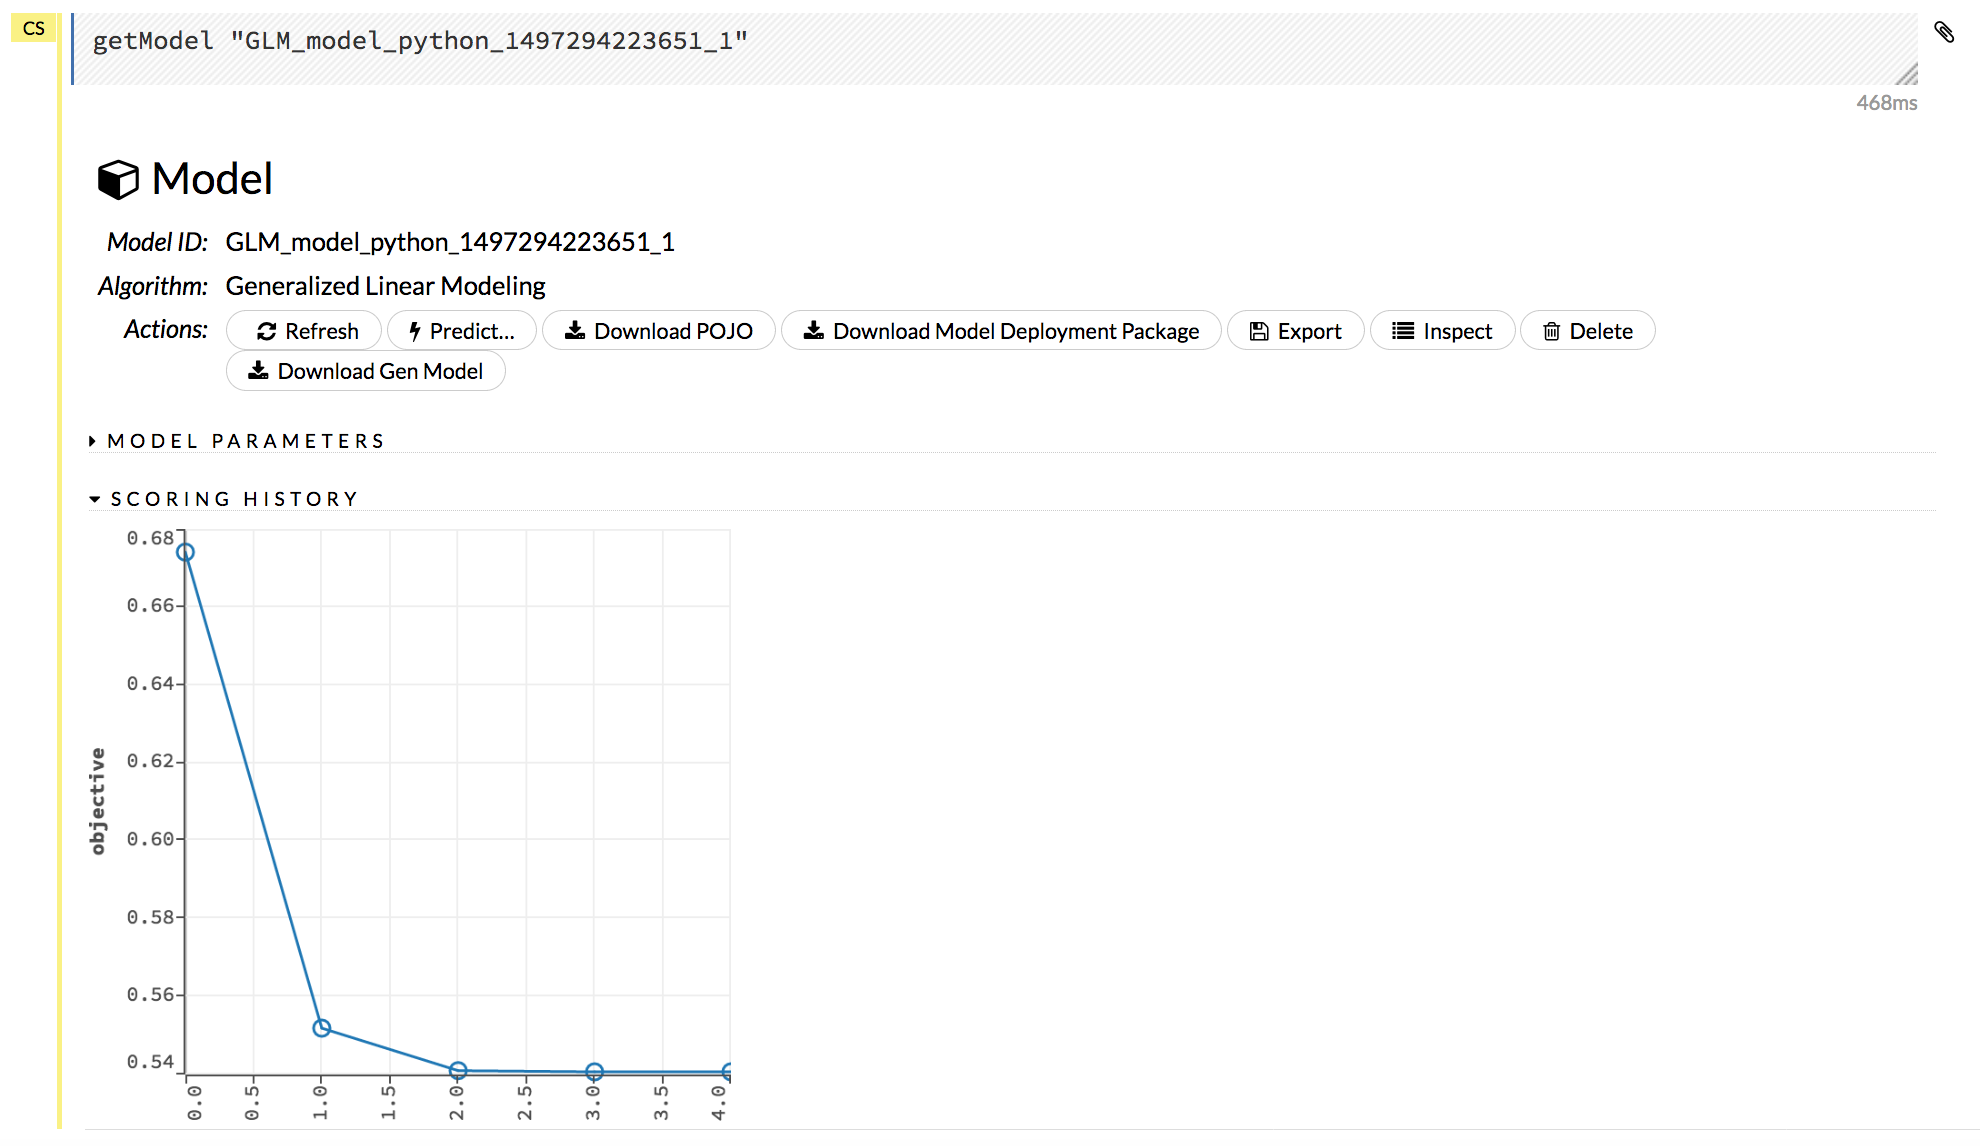
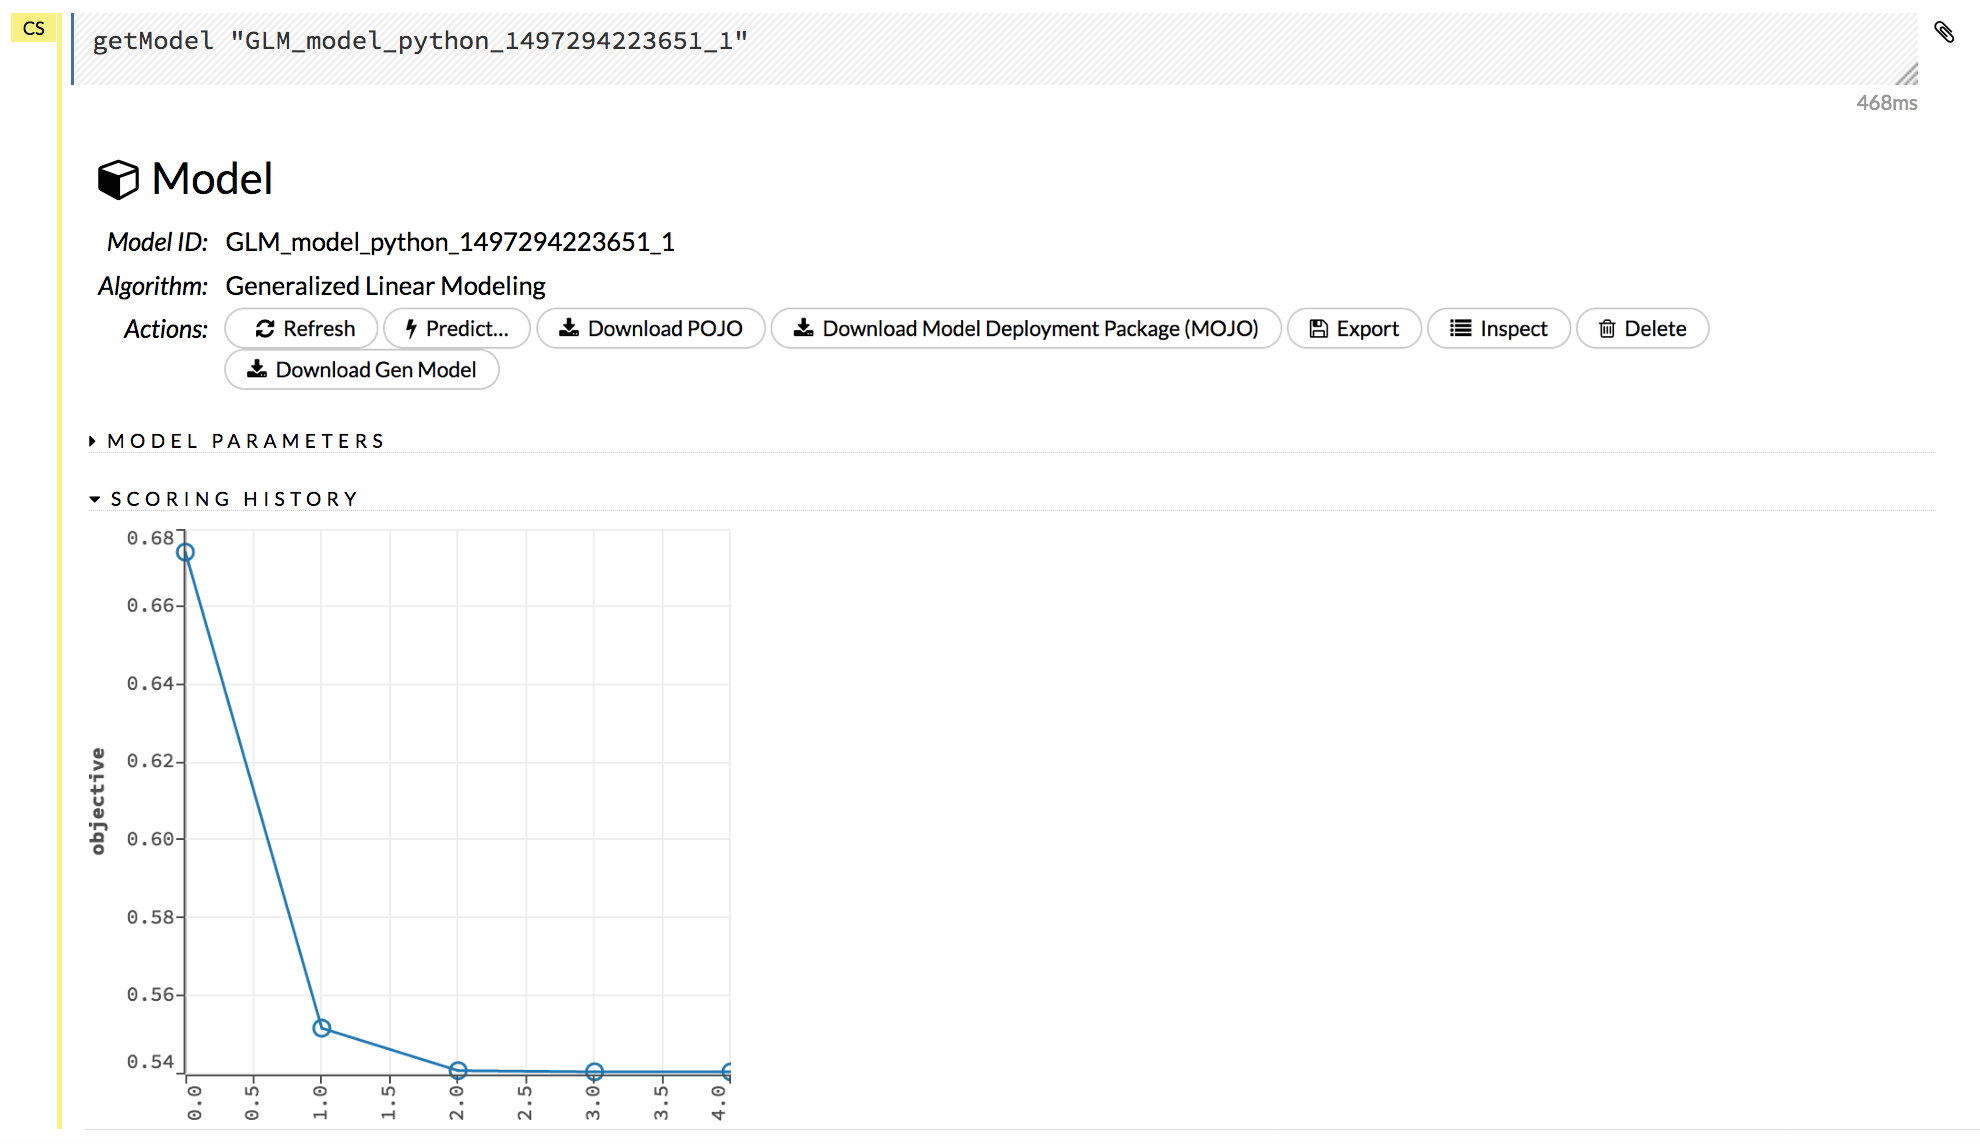
AUTOML-163 driveby fixes for Flow and Hadoop
- Updated the Flow > Viewing Models screenshot to show the new Download
Model Deployment Package (MOJO) button. Updated the text to match.
- Added support for MapR 5.2 based on pull request 1418.

Changed region(s): [[0.1232, 0.2749, 0.8626, 0.336]]

diff --git a/h2o-docs/src/product/flow.rst b/h2o-docs/src/product/flow.rst
@@ -1112,7 +1112,7 @@ The following additional functions are available when viewing a model:
 - **Refresh**: Refreshes the model.
 - **Predict**: Use this model to make predictions.  
 - **Download POJO**: Generates a Plain Old Java Object (POJO) that can use the model outside of H2O. Note that a POJO can be run in standalone mode or it can be integrated into a platform, such as `Hadoop's Storm <https://github.com/h2oai/h2o-tutorials/tree/master/tutorials/streaming/storm>`__. To make the POJO work in your Java application, you will also need the ``h2o-genmodel.jar`` file (available via the **Download Generated Model** button or in ``h2o-3/h2o-genmodel/build/libs/h2o-genmodel.jar``). Note that POJOs are are not supported for XGBoost models.
-- **Download Model Deployment Package**: Downloads a zip file containing the Model ObJect, Optimized (MOJO). This file includes the outputting model information in JSON format. Note that MOJOs are only available for DRF, GBM, GLM, GLRM, K-Means, Word2vec, and XGBoost models. 
+- **Download Model Deployment Package (MOJO)**: Downloads a zip file containing the Model ObJect, Optimized (MOJO). This file includes the outputting model information in JSON format. Note that MOJOs are only available for DRF, GBM, GLM, GLRM, K-Means, Word2vec, and XGBoost models. 
 - **Export**: Exports a built model.
 - **Inspect**: Inspect the model. Clicking this button displays a data table of the model parameters and output information.
 - **Delete**: Deletes the model.

diff --git a/h2o-docs/src/product/welcome.rst b/h2o-docs/src/product/welcome.rst
@@ -426,6 +426,7 @@ Supported Versions
 -  MapR 4.0
 -  MapR 5.0
 -  MapR 5.1
+-  MapR 5.2
 -  IOP 4.2
 
 **Important Points to Remember**:
